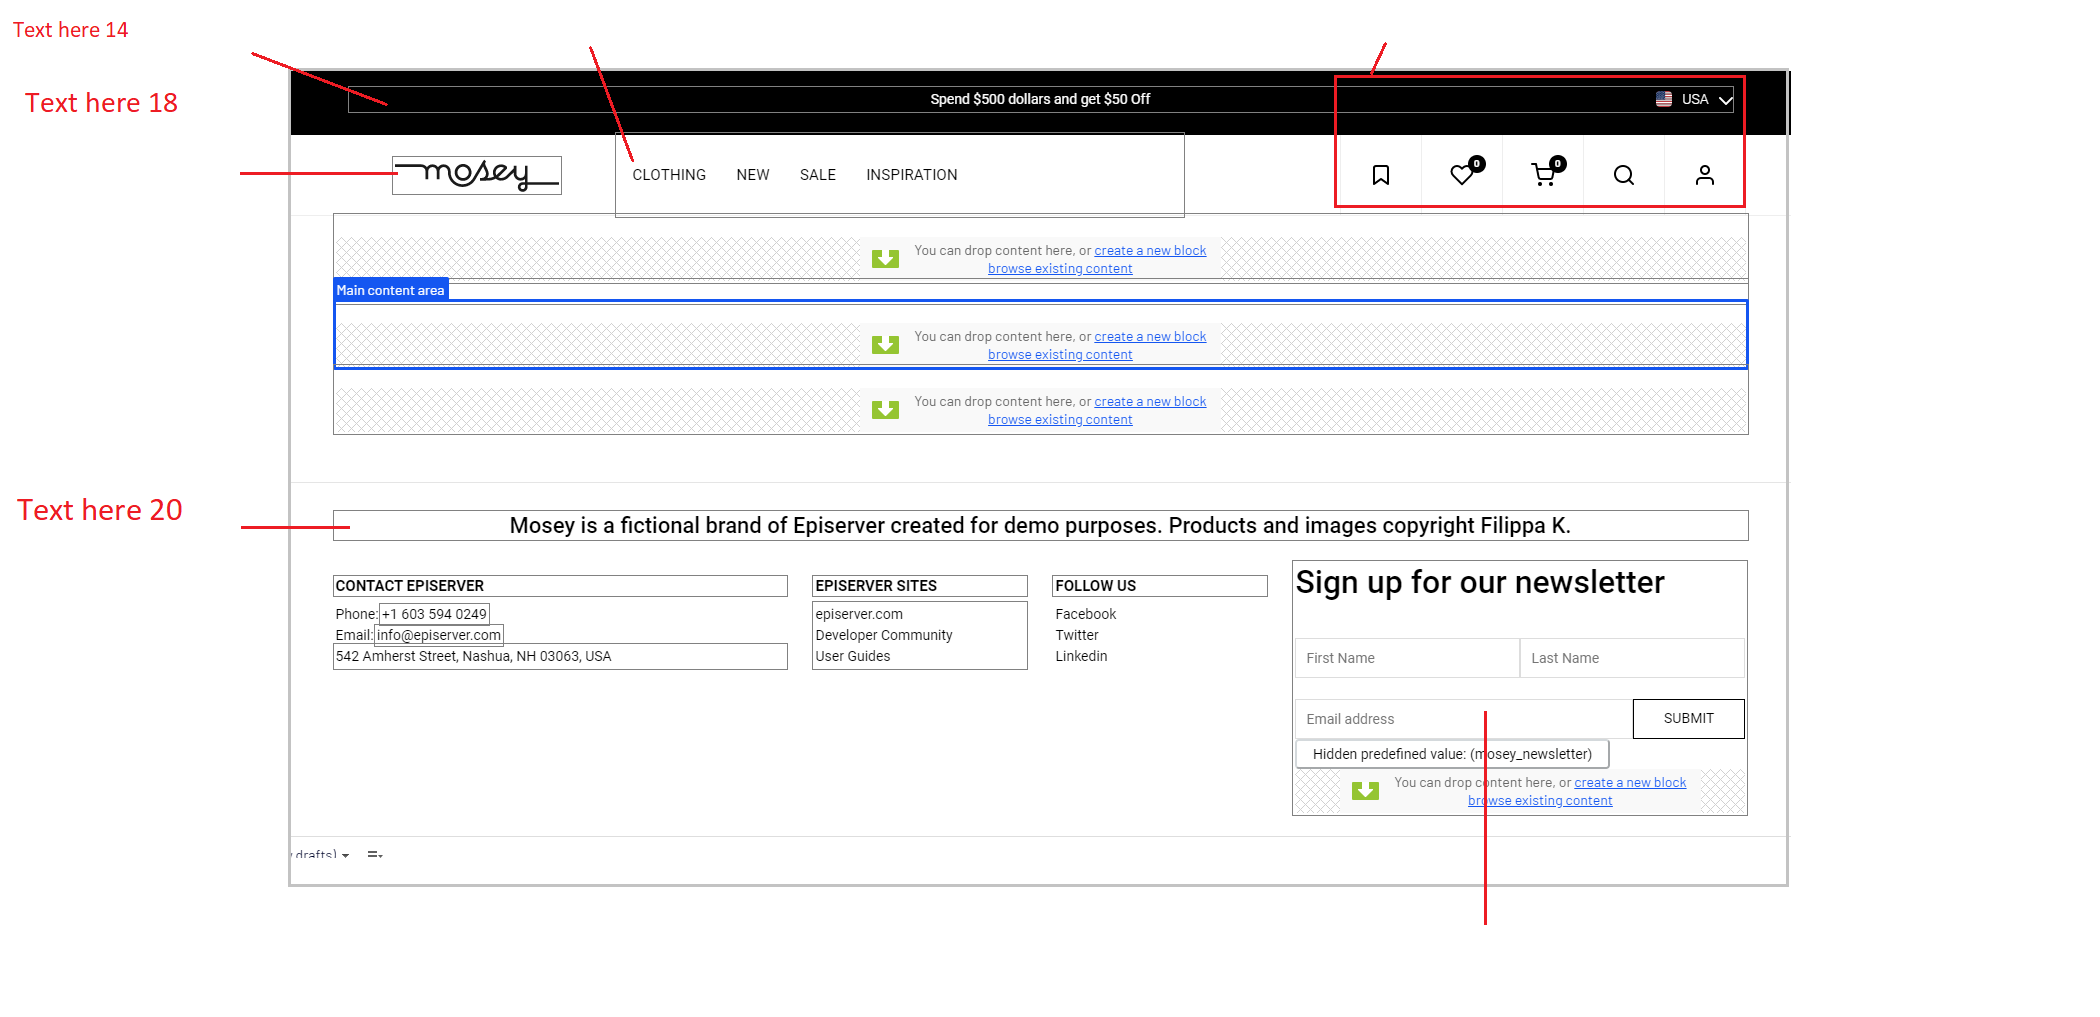
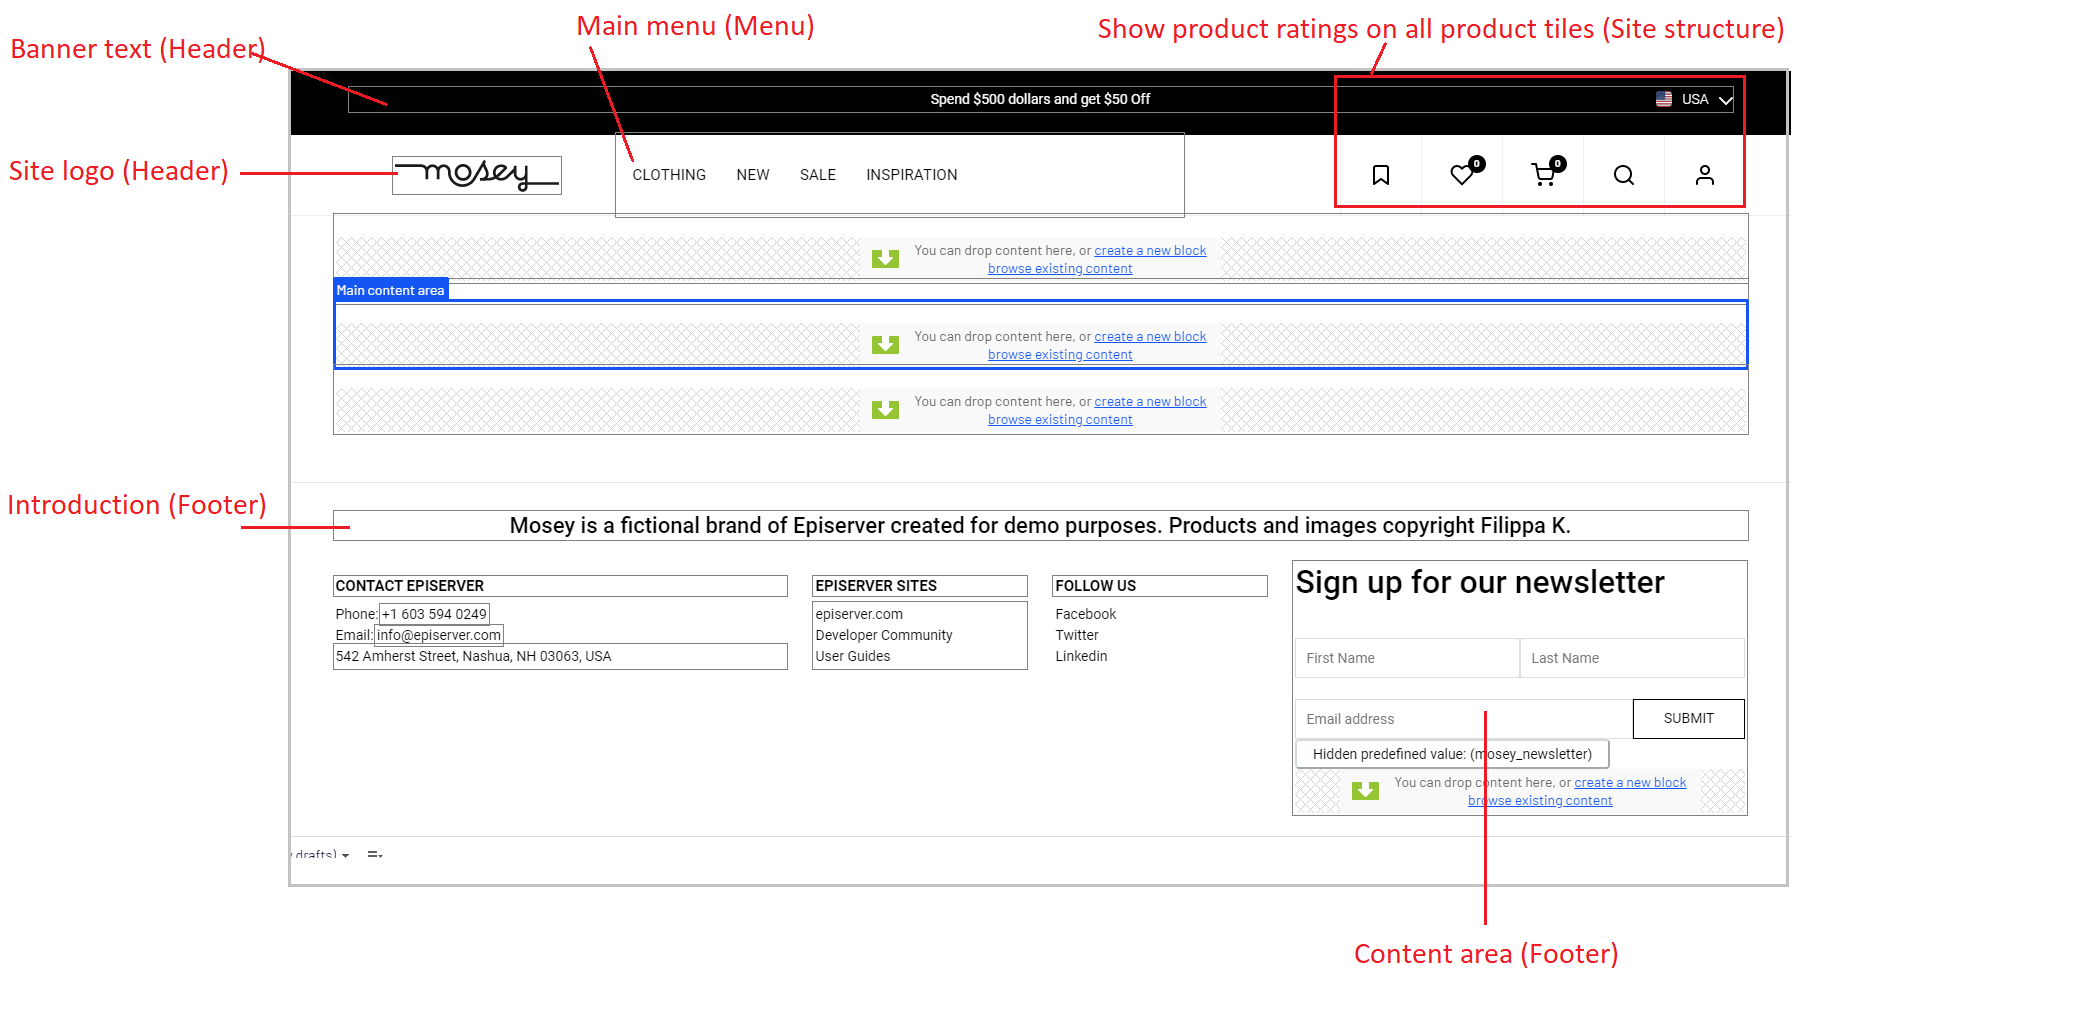
Demo Home Page finished

diff --git a/Page Types/Demo Home Page.md b/Page Types/Demo Home Page.md
@@ -5,6 +5,10 @@
 
 An open-format *Page Type* designed to act as the home page or root of your website. Consists of three content areas and a main body area. 
 
+## Preview: Property name (Tab name) in red
+
+<img src="../Screenshots/Demo%20Home%20Page%20-%20OPE%20-%20Explained.png?raw=true" alt="Demo Home Page" width="100%" />
+
 ## Property List
 The following property list includes properties that are unique to this content type. For a list of shared properties, view our [*Common Page Properties*](./Common%20Page%20Properties.md) list.
 
@@ -12,14 +16,14 @@ The following property list includes properties that are unique to this content 
 
 Display Name *(Name in code)* | Type | Property Description
 --------------|------|---------------
-**Main body** *(`MainBody`)* | XHTML string (>255) | Provides a rich-text editor for entering formatted content.
+**Main body** *(`MainBody`)* | XhtmlString | Provides a rich-text editor for entering formatted content.
 **Top content area** *(`TopContentArea`)* | ContentArea | Provides a drag-and-drop interface for placing media, blocks, or other content onto the page.
 **Main content area** *(`MainContentArea`)* | ContentArea | Provides a drag-and-drop interface for placing media, blocks, or other content onto the page.
 **Bottom content area** *(`BottomContentArea`)* | ContentArea | Provides a drag-and-drop interface for placing media, blocks, or other content onto the page.
 
 ** **
 #### Preview of the Content tab
-<img src="../../Screenshots/Demo%20Home%20Page%20-%20Content%20tab.png?raw=true" alt="Content tab of Demo Home Page in All Properties view" width="50%" />
+<img src="../Screenshots/Demo%20Home%20Page%20-%20Content%20tab.png?raw=true" alt="Content tab of Demo Home Page in All Properties view" width="50%" />
 
 ---
 
@@ -28,11 +32,11 @@ Display Name *(Name in code)* | Type | Property Description
 Display Name *(Name in code)* | Type | Property Description
 --------------|------|---------------
 **Site logo** *(`SiteLogo`)* | Content Item | Provides a drag-and-drop interface for placing a logo image for the entire site.
-**Banner text** *(`BannerText`)* | XHTML string (>255) | Provides a rich-text editor for entering formatted content that appears on the top of each page of the site.
-**Menu style** *(`HeaderMenuStyle`)* | Long string (>255) | Allows for selecting the position of the site logo relative to the main navigation. The options are **Left logo** or **Center logo**.
-**Show commerce header components** *(`ShowCommerceHeaderComponents`)* | Selected/not selected | When selected, three extra options will be available in the site header: Wishlist, Shopping cart and the Market selector (see below).
+**Banner text** *(`BannerText`)* | XhtmlString | Provides a rich-text editor for entering formatted content that appears on the top of each page of the site.
+**Menu style** *(`HeaderMenuStyle`)* | String | Allows for selecting the position of the site logo relative to the main navigation. The options are **Left logo** or **Center logo**.
+**Show commerce header components** *(`ShowCommerceHeaderComponents`)* | Boolean | When selected, three extra options will be available in the site header: Wishlist, Shopping cart and the Market selector (see below).
   
-<img src="../../Screenshots/Demo%20Home%20Page%20-%20Header%20tab%20-%20Show%20commerce%20header%20components.png?raw=true" alt="Header tab of Demo Home Page in All Properties view" width="80%" /> 
+<img src="../Screenshots/Demo%20Home%20Page%20-%20Header%20tab%20-%20Show%20commerce%20header%20components.png?raw=true" alt="Header tab of Demo Home Page in All Properties view" width="80%" /> 
 
 *Show commerce header components* option selected on the left.
 
@@ -40,7 +44,7 @@ Display Name *(Name in code)* | Type | Property Description
 
 #### Peview of the Header tab
 
-<img src="../../Screenshots/Demo%20Home%20Page%20-%20Header%20tab.png?raw=true" alt="Header tab of Demo Home Page in All Properties view" width="50%" />
+<img src="../Screenshots/Demo%20Home%20Page%20-%20Header%20tab.png?raw=true" alt="Header tab of Demo Home Page in All Properties view" width="50%" />
 
 ---
 
@@ -48,22 +52,22 @@ Display Name *(Name in code)* | Type | Property Description
 
 Display Name *(Name in code)* | Type | Property Description
 --------------|------|---------------
-**Introduction** *(`Introduction`)* | Long string (>255) | Provides a text box to enter text that appears on top of the footer.
-**Company header** *(`CompanyHeader`)* | Long string (>255) | Provides a text box for entering a header for the left-most column of the footer.
-**Company address** *(`CompanyAddress`)* | Long string (>255) | Provides a text for entering the address of the company.
-**Company phone** *(`CompanyPhone`)* | Long string (>255) | Provides a text box for entering the company phone number.
-**Company email** *(`CompanyEmail`)* | Long string (>255) | Allows for entering the company email address.
-**Links header** *(`LinksHeader`)* | Long string (>255) | Provides a text box for entering a header for the second column of the footer.
+**Introduction** *(`Introduction`)* | String | Provides a text box to enter text that appears on top of the footer.
+**Company header** *(`CompanyHeader`)* | String | Provides a text box for entering a header for the left-most column of the footer.
+**Company address** *(`CompanyAddress`)* | String | Provides a text for entering the address of the company.
+**Company phone** *(`CompanyPhone`)* | String | Provides a text box for entering the company phone number.
+**Company email** *(`CompanyEmail`)* | String | Allows for entering the company email address.
+**Links header** *(`LinksHeader`)* | String | Provides a text box for entering a header for the second column of the footer.
 **Links** *(`Links`)* | Link collection | Provides a drag-and-drop interface for adding one or more links to pages and other content. Links can be either internal (on this site) or external.
-**Social header** *(`SocialHeader`)* | Long string (>255) | Provides a text box for entering a header for the third column of the footer.
+**Social header** *(`SocialHeader`)* | String | Provides a text box for entering a header for the third column of the footer.
 **Content area** *(`ContentArea`)* | ContentArea | Provides a drag-and-drop interface for adding a block, a form or media to the bottom-right corner of the footer.
-**Copyright** *(`FooterCopyrightText`)* | Long string (>255) | Provides a text box for entering the site copyright text.
+**Copyright** *(`FooterCopyrightText`)* | String | Provides a text box for entering the site copyright text.
 
 ** ** 
 
 #### Preview of the Footer tab
 
-<img src="../../Screenshots/Demo%20Home%20Page%20-%20Footer%20tab.png?raw=true" alt="Footer tab of Demo Home Page in All Properties view" width="50%" />
+<img src="../Screenshots/Demo%20Home%20Page%20-%20Footer%20tab.png?raw=true" alt="Footer tab of Demo Home Page in All Properties view" width="50%" />
 
 ---
 
@@ -71,16 +75,16 @@ Display Name *(Name in code)* | Type | Property Description
 
 Display Name *(Name in code)* | Type | Property Description
 --------------|------|---------------
-**Search option** *(`SearchOption`)* | Long string (>255) | Provides a selector for the search option for the site. The options are **Quick search** and **Auto search**.
-**Show products in search results** *(`ShowProductsSearchResults`)* | Selected/not selected | Option to control wether site search should show commerce products in the search results or not.
-**Show contents in search results** *(`ShowContentSearchResults`)* | Selected/not selected | Option to control wether site search should show CMS contents in the search results or not.
+**Search option** *(`SearchOption`)* | String | Provides a selector for the search option for the site. The options are **Quick search** and **Auto search**.
+**Show products in search results** *(`ShowProductsSearchResults`)* | Boolean | Option to control wether site search should show commerce products in the search results or not.
+**Show contents in search results** *(`ShowContentSearchResults`)* | Boolean | Option to control wether site search should show CMS contents in the search results or not.
 **Search catalog** *(`SearchCatalog`)* | Integer | Provides a selector for determining which commerce catalogs should be searched when searching for products. The options are **All** or a particular Catalog.
 
 ** **
 
 #### Preview of the Search settings tab
 
-<img src="../../Screenshots/Demo%20Home%20Page%20-%20Search%20settings%20tab.png?raw=true" alt="Search settings tab of Demo Home Page in All Properties view" width="50%" />
+<img src="../Screenshots/Demo%20Home%20Page%20-%20Search%20settings%20tab.png?raw=true" alt="Search settings tab of Demo Home Page in All Properties view" width="50%" />
 
 ---
 
@@ -98,7 +102,7 @@ Display Name *(Name in code)* | Type | Property Description
 
 #### Preview of the Menu tab
 
-<img src="../../Screenshots/Demo%20Home%20Page%20-%20Menu%20tab.png?raw=true" alt="Menu tab of Demo Home Page in All Properties view" width="50%" />
+<img src="../Screenshots/Demo%20Home%20Page%20-%20Menu%20tab.png?raw=true" alt="Menu tab of Demo Home Page in All Properties view" width="50%" />
 
 ---
 
@@ -106,17 +110,17 @@ Display Name *(Name in code)* | Type | Property Description
 
 Display Name *(Name in code)* | Type | Property Description
 --------------|------|---------------
-**My account** *(`MyAccountLabel`)* | Long string (>255) | Allows for providing a label for the property.
-**Shopping cart** *(`CartLabel`)* | Long string (>255) | Allows for providing a label for the property. 
-**Search** *(`SearchLabel`)* | Long string (>255) | Allows for providing a label for the property.
-**Wishlist** *(`WishlistLabel`)* | Long string (>255) | Allows for providing a label for the property.
-**Shared cart** *(`SharedCartLabel`)* | Long string (>255) | Allows for providing a label for the property.
+**My account** *(`MyAccountLabel`)* | String | Allows for providing a label for the property.
+**Shopping cart** *(`CartLabel`)* | String | Allows for providing a label for the property. 
+**Search** *(`SearchLabel`)* | String | Allows for providing a label for the property.
+**Wishlist** *(`WishlistLabel`)* | String | Allows for providing a label for the property.
+**Shared cart** *(`SharedCartLabel`)* | String | Allows for providing a label for the property.
 
 ** **
 
 #### Preview of the Site labels tab
 
-<img src="../../Screenshots/Demo%20Home%20Page%20-%20Site%20labels%20tab.png?raw=true" alt="Site labels tab of Demo Home Page in All Properties view" width="50%" />
+<img src="../Screenshots/Demo%20Home%20Page%20-%20Site%20labels%20tab.png?raw=true" alt="Site labels tab of Demo Home Page in All Properties view" width="50%" />
 
 ---
 
@@ -124,7 +128,7 @@ Display Name *(Name in code)* | Type | Property Description
 
 Display Name *(Name in code)* | Type | Property Description
 --------------|------|---------------
-**Show product ratings on all product tiles** *(`ShowProductRatingsOnListings`)* | Selected/not selected | When selected, the product ratings will be shown with each product tile.
+**Show product ratings on all product tiles** *(`ShowProductRatingsOnListings`)* | Boolean | When selected, the product ratings will be shown with each product tile.
 **Search page** *(`SearchPage`)* | Content Item | Allows for picking the *Search* page from the site tree.
 **Store locator page** *(`StoreLocatorPage`)* | Content Item | Allows for picking the *Store locator* page from the site tree.
 **Address book page** *(`AddressBookPage`)* | Content Item | Allows for picking the Address book page from the site tree.
@@ -148,7 +152,7 @@ Display Name *(Name in code)* | Type | Property Description
 
 #### Preview of the Site structure tab
 
-<img src="../../Screenshots/Demo%20Home%20Page%20-%20Site%20structure%20tab.png?raw=true" alt="Site structure tab of Demo Home Page in All Properties view" width="50%" />
+<img src="../Screenshots/Demo%20Home%20Page%20-%20Site%20structure%20tab.png?raw=true" alt="Site structure tab of Demo Home Page in All Properties view" width="50%" />
 
 ---
 
@@ -156,7 +160,7 @@ Display Name *(Name in code)* | Type | Property Description
 
 Display Name *(Name in code)* | Type | Property Description
 --------------|------|---------------
-**Send order confirmations** *(`SendOrderConfirmationMail`)* | Selected/not selected | When selected, an order confirmation email is sent after an order is placed.
+**Send order confirmations** *(`SendOrderConfirmationMail`)* | Boolean | When selected, an order confirmation email is sent after an order is placed.
 **Order confirmation** *(`OrderConfirmationMail`)* | Content Item | Allows for selecting the CMS page that contains the *Order confirmation* email message template.
 **Reset password** *(`ResetPasswordMail`)* | Content Item | Allows for selecting the CMS page that contains the *Reset password* email message template.
 
@@ -164,7 +168,7 @@ Display Name *(Name in code)* | Type | Property Description
 
 #### Preview of the Mail templates tab
 
-<img src="../../Screenshots/Demo%20Home%20Page%20-%20Mail%20templates%20tab.png?raw=true" alt="Mail template tab of Demo Home Page in All Properties view" width="50%" />
+<img src="../Screenshots/Demo%20Home%20Page%20-%20Mail%20templates%20tab.png?raw=true" alt="Mail template tab of Demo Home Page in All Properties view" width="50%" />
 
 ---
 
@@ -178,7 +182,7 @@ Display Name *(Name in code)* | Type | Property Description
 [Landing Page](#)
 
 ### Restrictions
-* none
+* None.
 
 ## Preview
-<img src="../../Screenshots/Demo%20Home%20Page%20-%20OPE%20-%20Explained.png?raw=true" alt="Demo Home Page" width="100%" />
+<img src="../Screenshots/Demo%20Home%20Page%20-%20OPE.png?raw=true" alt="Demo Home Page" width="100%" />

diff --git a/Page Types/Work-in-progress/_Basic Page Structure.md b/Page Types/Work-in-progress/_Basic Page Structure.md
@@ -10,12 +10,12 @@ The following property list includes properties that are unique to this content 
 
 Display Name *(Name in code)* | Type | Property Description
 --------------|------|---------------
-**Author** *(`Author`)* | Long string (>255) | Allows for entering the author of the blog post.
-**Main body** *(`MainBody`)* | XHTML string (>255) | Provides a rich-text editor for entering formatted content.
+**Author** *(`Author`)* | String | Allows for entering the author of the blog post.
+**Main body** *(`MainBody`)* | XhtmlString | Provides a rich-text editor for entering formatted content.
 **Main content area** *(`MainContentArea`)* | ContentArea | Provides a configurable drag-and-drop interface for placing media, blocks, or other content onto the page.
 **Comments per page** *(`CommentsPerPage`)* | Integer | Provides a numeric control for selecting the number of reader comments to show on the blog item page.
 **Categories** *(`Categories`)* | ContentReferenceList | List of categories.
-**Exclude from search results** *(`ExcludeFromSearch`)* |  Selected/not selected | Whether or not to exclude this content item from search results.
+**Exclude from search results** *(`ExcludeFromSearch`)* |  Boolean | Whether or not to exclude this content item from search results.
 **Image** *(`PageImage`)* | Content Item | Used as the teaser image when page is referenced on other pages.
 **CSS files** *(`CssFiles`)* | Link collection | Allows for providing one or more CSS files for this page.
 **Left column** *(`MainContentAreaColumn`)* | Integer | Used to determine the column width.
